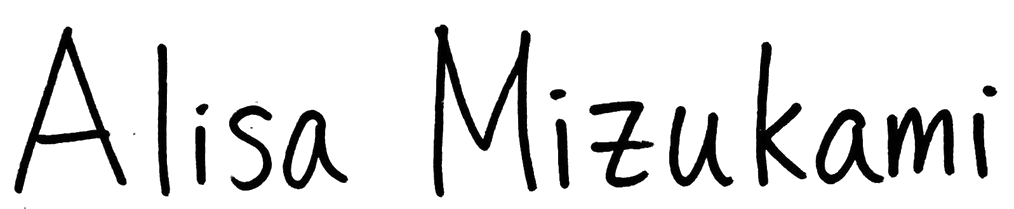
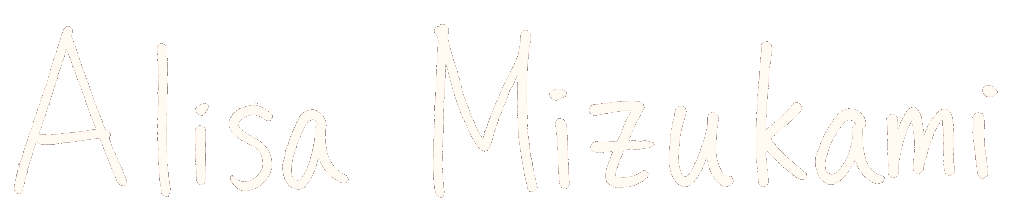
Color Scheme Updates
Color scheme updated, ogimage changed, profile photo changed

diff --git a/css/style.css b/css/style.css
@@ -55,7 +55,7 @@ p{
 
 button {
   display: inline-block;
-  background-color: #B5DFD4;
+  background-color: #F0ECE2;
   cursor: pointer;
   padding: 1.5em 2em;
   text-align: center;
@@ -207,7 +207,7 @@ hr {
 
 header
 {
-  background: #B5DFD4;
+  background: #891240;
   margin: 0;
   padding: 1em;
 }
@@ -223,6 +223,7 @@ header
   margin-top: 0;
   line-height: 0;
   padding: 0;
+  color: #F0ECE2;
 }
 
 .logo img
@@ -234,13 +235,18 @@ header
   padding: 2em;
 }
 
+.frontpage img
+{
+  /*margin: auto;*/
+  width: 33.33%;
+}
 
 
 /*===================== 5. FOOTER =============================*/
 
 footer
 {
-  background: #B5DFD4;
+  background: #891240;
   margin: 0;
   padding: 1em;
   text-align: center;
@@ -249,6 +255,7 @@ footer
 .credits p
 {
   font-size: 0.75em;
+  color: #F0ECE2;
 }
 
 
@@ -263,7 +270,7 @@ nav
 .topnav
 {
   list-style-type: none;
-  background-color: #FEFDCE;
+  background-color: #F0ECE2;
   margin: 0;
   padding-top: 1em;
   padding-bottom: 1em;
@@ -291,7 +298,7 @@ nav
 /*
 .dropdown:hover a
 {
-color: #B5DFD4;
+color: #F0ECE2;
 transition: all .4s ease;
 -webkit-transition: all .4s ease; /*safari and chrome
 }
@@ -390,7 +397,7 @@ transition: all .4s ease;
   }
   */
 
-  .hoverrotate img
+  .hoverrotate img /* for rotating gear, obsolete 1/31/2025*/
   {
     margin-left:auto;
     margin-right:auto;
@@ -470,7 +477,7 @@ transition: all .4s ease;
 
   /* Style the buttons that are used to open and close the accordion panel */
   .accordion {
-    background-color: #B5DFD4;
+    background-color: #F0ECE2;
     cursor: pointer;
     padding: 1.5em 2em;
     width: 100%;
@@ -491,7 +498,7 @@ transition: all .4s ease;
 
   /* Add a background color to the button if it is clicked on (add the .active class with JS), and when you move the mouse over it (hover) */
   .accordionactive, .accordion:hover {
-    background-color: #e4e4e4;
+    background-color: #D9D3C0;
     text-decoration: none;
     text-decoration-thickness: 0;
     text-underline-offset: 0;
@@ -554,7 +561,7 @@ transition: all .4s ease;
 /*
 .projectscolumn{
   display: inline-block;
-  background-color: #B5DFD4;
+  background-color: #F0ECE2;
   height: 300px;
   text-align: center;
   padding: 1em;
@@ -608,7 +615,7 @@ vertical-align: top;
   height: 300px;
   width: 25%;
   margin-bottom: 2%;
-  background-color: #B5DFD4;
+  background-color: #F0ECE2;
   margin-left: 1%;
   margin-right: 1%;
   padding: 2.5%;
@@ -783,7 +790,7 @@ padding-left: 2rem;
     width: 100%;
     height: 100%;
     overflow: auto;
-    background-color: #B5DFD4 ;
+    background-color: #F0ECE2 ;
   }
 
   /* Modal Content */
@@ -817,7 +824,7 @@ padding-left: 2rem;
   .artmySlides {
     display: none;
     text-align: center;
-    background-color:#B5DFD4 ;
+    background-color:#F0ECE2 ;
 
   }
 
@@ -854,7 +861,7 @@ padding-left: 2rem;
   .artprev:hover,
   .artnext:hover {
     background-color: #44495D;
-    color: #FEFDCE;
+    color: #F0ECE2;
     text-decoration: none;
 
   }
@@ -872,7 +879,7 @@ padding-left: 2rem;
   /* Caption text */
   .artcaption-container {
     text-align: center;
-    background-color: #B5DFD4 ;
+    background-color: #F0ECE2 ;
     padding-left:16px;
     padding-right: 16px;
     padding-top: 2px;
@@ -921,7 +928,7 @@ padding-left: 2rem;
     padding:15px;
     margin:1em 0 3em;
     color:#44495D;
-    background:#B5DFD4; /* default background for browsers without gradient support */
+    background:#F0ECE2; /* default background for browsers without gradient support */
     -webkit-border-radius:20px;
     -moz-border-radius:20px;
     border-radius:20px;
@@ -939,7 +946,7 @@ padding-left: 2rem;
     left:15%; /* controls horizontal position */
     border-width:15px 15px 0; /* vary these values to change the angle of the vertex */
     border-style:solid;
-    border-color:#B5DFD4 transparent;
+    border-color:#F0ECE2 transparent;
     /* reduce the damage in FF3.0 */
     display:block;
     width:0;
@@ -953,7 +960,7 @@ padding-left: 2rem;
     padding:15px;
     margin:1em 0 3em;
     color:#44495D;
-    background:#B5DFD4; /* default background for browsers without gradient support */
+    background:#F0ECE2; /* default background for browsers without gradient support */
     -webkit-border-radius:20px;
     -moz-border-radius:20px;
     border-radius:20px;
@@ -970,7 +977,7 @@ padding-left: 2rem;
     left:75%; /* controls horizontal position */
     border-width:15px 15px 0; /* vary these values to change the angle of the vertex */
     border-style:solid;
-    border-color:#B5DFD4 transparent;
+    border-color:#F0ECE2 transparent;
     /* reduce the damage in FF3.0 */
     display:block;
     width:0;

diff --git a/index.html b/index.html
@@ -113,37 +113,21 @@
 
     <div class = "index">
 
-      <div class="thirtythreecolumn">
-
+      <div class="frontpage">
 
           <img src="img/photos/profile.png">
 
       </div>
 
+      <h1>Hi! I'm Alisa.</h1>
+      <p>An engineer with a love of design.</p>
 
-<div class="thirtythreecolumn">
-      <div class="hoverrotate">
-        <img src="img/icons/gear.png">
-        <!--
-       <div class="hide">
-        <h1>WELCOME!</h1>
-      </div>
-    -->
-      </div>
-    </div>
-
-
-    <div class="thirtythreecolumn">
-              <img src="img/photos/m90.png">
-        </div>
-
-
-
+<!--
 <br clear=all><br>
 <hr>
 <h1>Hi! I'm Alisa.</h1>
 <p>A mechanical engineering graduate aspiring to make life a little easier to live.</p>
-
+-->
 
 </div><!--end of index-->
 

diff --git a/resume.html b/resume.html
@@ -223,7 +223,7 @@
             <img src="img/icons/newlinelogo.png">
           </div>
           <div class="seventyfivecolumn mobilecolumn">
-            <p><b>New Line Structures - Project Engineer<br>February 2022 - Present</b><br><br>
+            <p><b>New Line Structures - Project Engineer<br>February 2022 - September 2024</b><br><br>
               • Update and maintain the project schedule using Primavera P6.<br><br>
               • Generate subcontractor and owner invoices using Procore.<br><br>
               </p>
